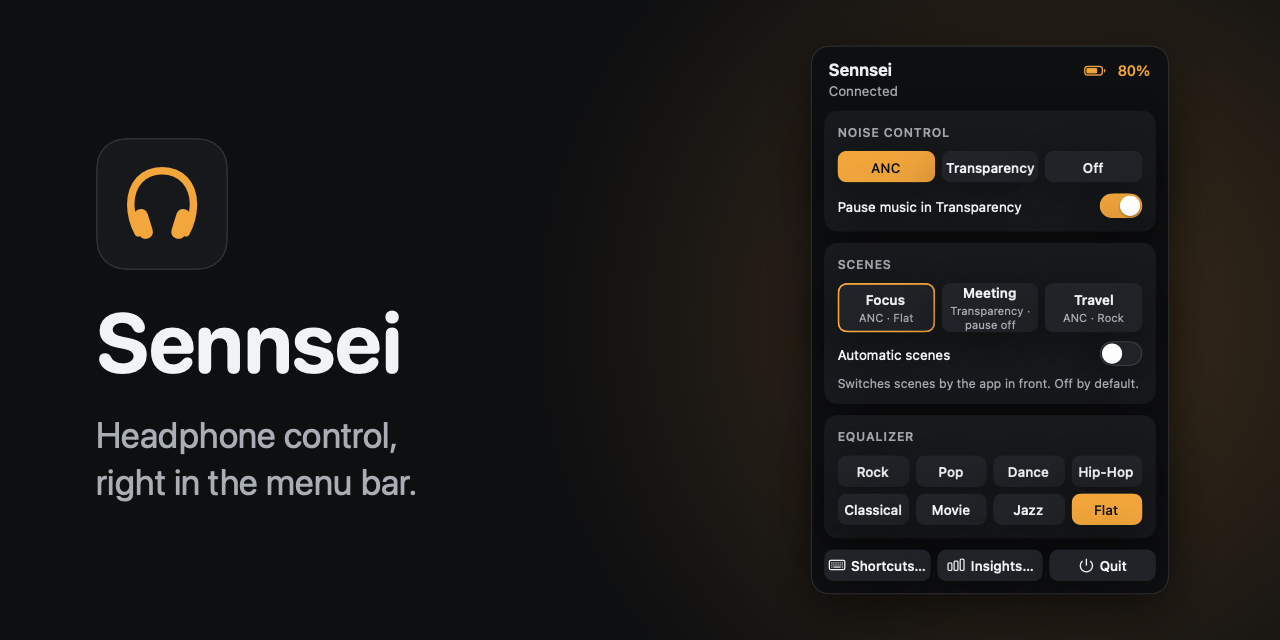
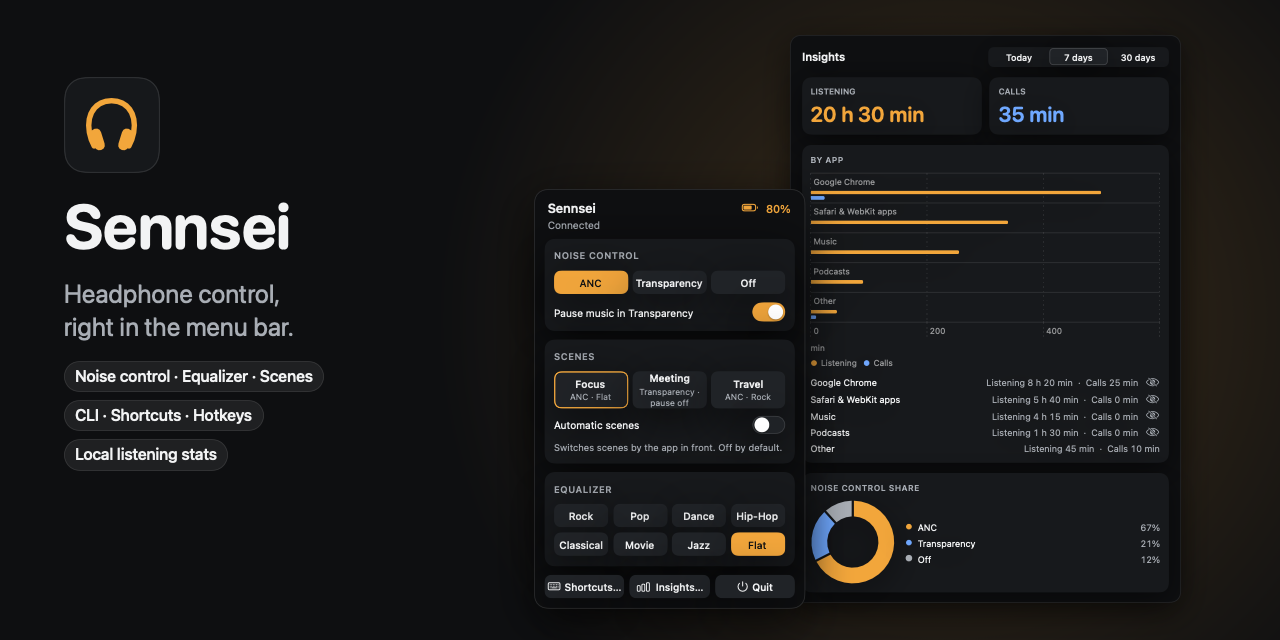
docs: hero image combining the panel and Insights

diff --git a/Packages/HeadsetKit/Sources/SennseiApp/PreviewRenderer.swift b/Packages/HeadsetKit/Sources/SennseiApp/PreviewRenderer.swift
@@ -73,7 +73,9 @@ enum PreviewRenderer {
         try write(window(panel, cornerRadius: 14), named: "panel.png", in: directory)
         try write(window(insights.frame(width: 520), cornerRadius: 14), named: "insights.png", in: directory)
         try write(window(shortcuts, cornerRadius: 14), named: "shortcuts.png", in: directory)
-        try write(SocialPreview(panel: panel), named: "social-preview.png", in: directory, scale: 1)
+        let hero = HeroImage(panel: panel, insights: insights.frame(width: 520))
+        try write(hero, named: "hero.png", in: directory, scale: 2, opaque: true)
+        try write(hero, named: "social-preview.png", in: directory, scale: 0.8, opaque: true)
     }
 
     /// A context that is never used to read anything: the view is given its state directly.
@@ -98,48 +100,73 @@ enum PreviewRenderer {
             .padding(28)
     }
 
-    private static func write<V: View>(_ view: V, named name: String, in directory: URL, scale: CGFloat = 2) throws {
+    private static func write<V: View>(_ view: V, named name: String, in directory: URL, scale: CGFloat = 2, opaque: Bool = false) throws {
         let renderer = ImageRenderer(content: view)
         renderer.scale = scale
         guard let image = renderer.cgImage else { throw RenderError.render("\(name): no image") }
-        try PNGWriter.write(image, to: directory.appendingPathComponent(name))
+        try PNGWriter.write(image, to: directory.appendingPathComponent(name), opaque: opaque)
     }
 }
 
-/// 1280x640 card for the repository's social preview: mark, name, tagline and the panel.
-private struct SocialPreview: View {
-    let panel: MenuPanel
+/// The repository's hero image (1600x800 points; README at 2x, GitHub social preview at 0.8x): mark, name,
+/// tagline and feature lines on the left, the Insights window (top part) behind and the panel in front.
+private struct HeroImage<Panel: View, Insights: View>: View {
+    let panel: Panel
+    let insights: Insights
+
+    private let graphite = Color(red: 0x0E / 255, green: 0x0F / 255, blue: 0x11 / 255)
 
     var body: some View {
-        ZStack {
-            Color(red: 0x0E / 255, green: 0x0F / 255, blue: 0x11 / 255)
+        ZStack(alignment: .topLeading) {
+            graphite
             RadialGradient(
-                colors: [Palette.amber.opacity(0.20), .clear], center: UnitPoint(x: 0.82, y: 0.5),
-                startRadius: 10, endRadius: 520)
-            HStack(spacing: 0) {
-                VStack(alignment: .leading, spacing: 22) {
-                    AppMark(size: 132)
-                    Text("Sennsei")
-                        .font(.system(size: 84, weight: .bold, design: .rounded))
-                        .foregroundStyle(Palette.textPrimary)
-                    Text("Headphone control,\nright in the menu bar.")
-                        .font(.system(size: 36, weight: .regular))
-                        .foregroundStyle(Palette.textSecondary)
-                        .lineSpacing(4)
+                colors: [Palette.amber.opacity(0.20), .clear], center: UnitPoint(x: 0.74, y: 0.5),
+                startRadius: 10, endRadius: 640)
+            VStack(alignment: .leading, spacing: 20) {
+                AppMark(size: 120)
+                Text("Sennsei")
+                    .font(.system(size: 78, weight: .bold, design: .rounded))
+                    .foregroundStyle(Palette.textPrimary)
+                Text("Headphone control,\nright in the menu bar.")
+                    .font(.system(size: 32, weight: .regular))
+                    .foregroundStyle(Palette.textSecondary)
+                    .lineSpacing(3)
+                VStack(alignment: .leading, spacing: 10) {
+                    ForEach(["Noise control · Equalizer · Scenes", "CLI · Shortcuts · Hotkeys", "Local listening stats"], id: \.self) { line in
+                        Text(line)
+                            .font(.system(size: 20, weight: .medium))
+                            .foregroundStyle(Palette.textPrimary)
+                            .padding(.horizontal, 14).padding(.vertical, 7)
+                            .background(Color.white.opacity(0.07), in: Capsule())
+                            .overlay(Capsule().strokeBorder(Color.white.opacity(0.10)))
+                    }
                 }
-                .padding(.leading, 96)
-                Spacer(minLength: 0)
-                panel
-                    .fixedSize()
-                    .clipShape(RoundedRectangle(cornerRadius: 16, style: .continuous))
-                    .overlay(RoundedRectangle(cornerRadius: 16, style: .continuous).strokeBorder(Color.white.opacity(0.12), lineWidth: 1))
-                    .shadow(color: .black.opacity(0.5), radius: 24, y: 10)
-                    .scaleEffect(1.12)
-                    .padding(.trailing, 130)
+                .padding(.top, 4)
             }
+            .padding(.leading, 80)
+            .padding(.top, 96)
+
+            // Insights: only the top part (header, totals, by-app chart, noise share), behind the panel.
+            insights
+                .fixedSize()
+                .frame(width: 520, height: 755, alignment: .top)
+                .clipped()
+                .clipShape(RoundedRectangle(cornerRadius: 14, style: .continuous))
+                .overlay(RoundedRectangle(cornerRadius: 14, style: .continuous).strokeBorder(Color.white.opacity(0.10), lineWidth: 1))
+                .shadow(color: .black.opacity(0.5), radius: 22, y: 10)
+                .scaleEffect(0.94, anchor: .topLeading)
+                .offset(x: 987, y: 44)
+            panel
+                .fixedSize()
+                .clipShape(RoundedRectangle(cornerRadius: 16, style: .continuous))
+                .overlay(RoundedRectangle(cornerRadius: 16, style: .continuous).strokeBorder(Color.white.opacity(0.12), lineWidth: 1))
+                .shadow(color: .black.opacity(0.6), radius: 28, y: 14)
+                .scaleEffect(1.06, anchor: .topLeading)
+                .offset(x: 668, y: 236)
         }
-        .frame(width: 1280, height: 640)
+        .frame(width: 1600, height: 800, alignment: .topLeading)
         .clipped()
+        .environment(\.colorScheme, .dark)
     }
 }
 
@@ -160,11 +187,12 @@ private struct AppMark: View {
 
 /// Writes a PNG with no metadata beyond the standard sRGB profile.
 enum PNGWriter {
-    static func write(_ image: CGImage, to url: URL) throws {
+    /// `opaque` drops the alpha channel (smaller file) for images that fill their whole canvas.
+    static func write(_ image: CGImage, to url: URL, opaque: Bool = false) throws {
         let space = CGColorSpace(name: CGColorSpace.sRGB)!
         guard let context = CGContext(
             data: nil, width: image.width, height: image.height, bitsPerComponent: 8, bytesPerRow: 0, space: space,
-            bitmapInfo: CGImageAlphaInfo.premultipliedLast.rawValue) else { throw PreviewRenderer.RenderError.render("bitmap context") }
+            bitmapInfo: (opaque ? CGImageAlphaInfo.noneSkipLast : CGImageAlphaInfo.premultipliedLast).rawValue) else { throw PreviewRenderer.RenderError.render("bitmap context") }
         context.draw(image, in: CGRect(x: 0, y: 0, width: image.width, height: image.height))
         guard let flat = context.makeImage(),
               let destination = CGImageDestinationCreateWithURL(url as CFURL, UTType.png.identifier as CFString, 1, nil)

diff --git a/README.md b/README.md
@@ -31,7 +31,7 @@ brew install --cask onlyilkr/tap/sennsei
 > (see [Credits](#credits)), and contains no code, files or data from the official app.
 
 <p align="center">
-  <img src="docs/images/panel.png" width="360" alt="The Sennsei panel under the menu bar icon: connected, battery 80 percent; noise control with ANC selected and a switch to pause music in Transparency; three scenes, Focus, Meeting and Travel, with Focus active, and the automatic scenes switch off; equalizer presets Rock, Pop, Dance, Hip-Hop, Classical, Movie, Jazz and Flat with Flat selected; buttons for Shortcuts, Insights and Quit.">
+  <img src="docs/images/hero.png" width="100%" alt="Sennsei: the menu bar panel in front of the Insights window. The panel shows the headphones connected at 80 percent battery with noise control, scenes and equalizer presets; behind it Insights shows 20 hours 30 minutes of listening and 35 minutes of calls in a week, listening per app and the noise control share. Beside them: the Sennsei icon and the line Headphone control, right in the menu bar.">
 </p>
 
 <sub>The images in this README are generated from sample data (`make preview`). The switch, segmented picker
@@ -152,6 +152,10 @@ Renamed headphones, or none at hand? See *The headphones have another name* and 
 ## The panel
 
 Click the menu bar icon.
+
+<p align="center">
+  <img src="docs/images/panel.png" width="360" alt="The Sennsei panel under the menu bar icon: connected, battery 80 percent; noise control with ANC selected and a switch to pause music in Transparency; three scenes, Focus, Meeting and Travel, with Focus active, and the automatic scenes switch off; equalizer presets Rock, Pop, Dance, Hip-Hop, Classical, Movie, Jazz and Flat with Flat selected; buttons for Shortcuts, Insights and Quit.">
+</p>
 
 - **Header**: connection state and battery.
 - **Noise control**: ANC, Transparency, Off, and the *Pause music in Transparency* switch (the headphones'
